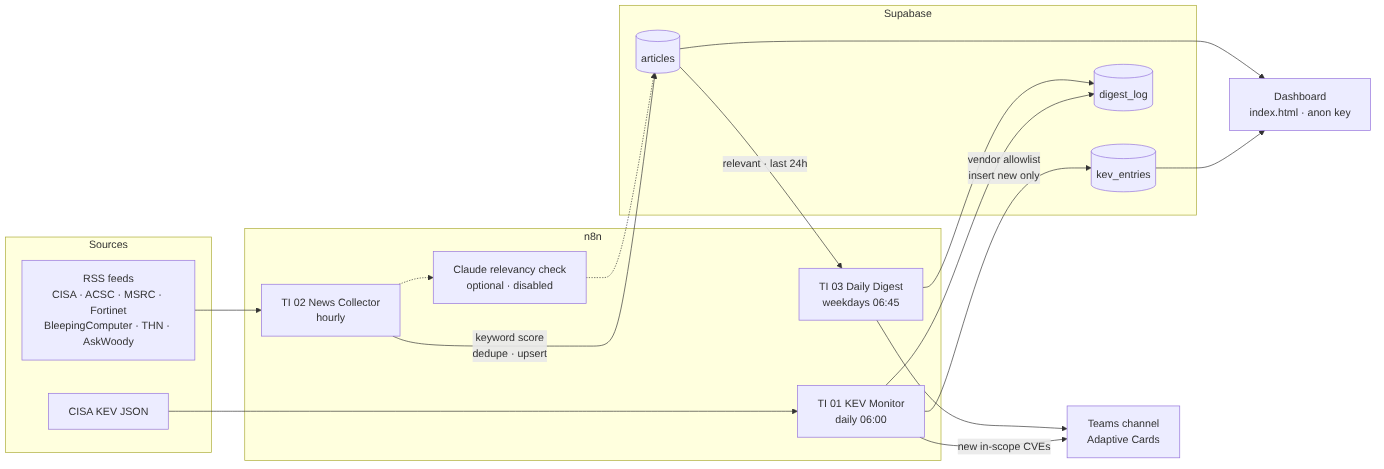
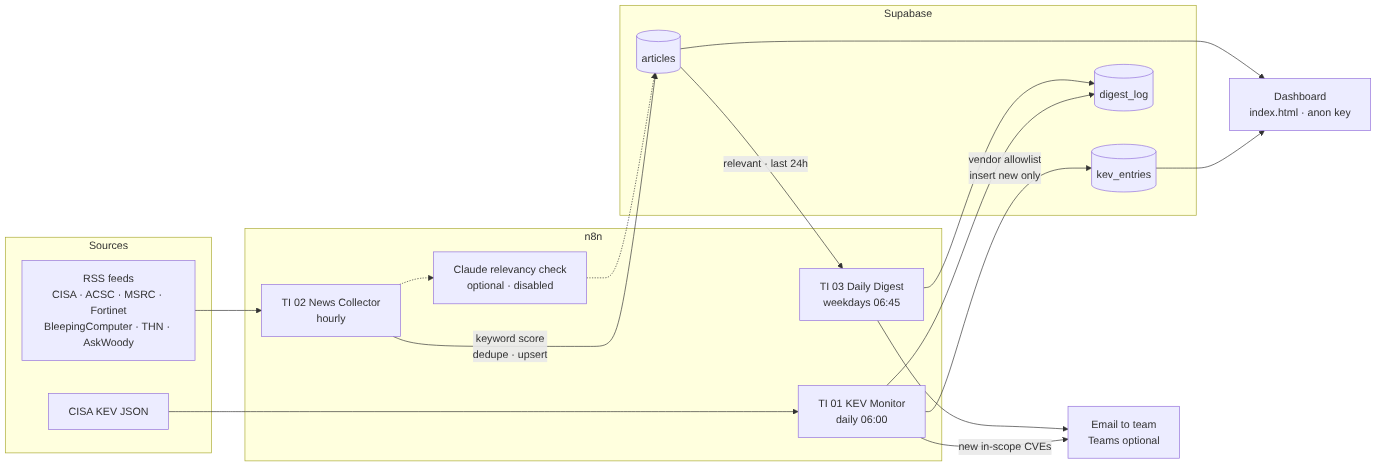
Switch default output to email (SMTP); keep Teams node disabled; add sample email
Claude-Session: https://claude.ai/code/session_01VwqciiszqqqVmUxhX1ibk1

diff --git a/docs/sample-kev-email.html b/docs/sample-kev-email.html
@@ -1,0 +1,6 @@
+<div style="font-family:Segoe UI,Arial,sans-serif;font-size:14px;color:#1b1f1c;max-width:720px">
+<h2 style="margin:0 0 4px">CISA KEV – 1 new in-scope entry</h2>
+<p style="color:#666;margin:0 0 16px">Filtered to vendors in our client environments · 1 stored this run</p><div style="border-top:1px solid #ddd;padding:10px 0">
+  <div><a href="https://nvd.nist.gov/vuln/detail/CVE-2026-1" style="font-weight:600">CVE-2026-1</a> – Microsoft Windows <span style="color:#b3261e;font-weight:600">⚠ Ransomware use known</span></div>
+  <div>CLFS EoP</div>
+  <div style="color:#666;font-size:12px">Added 2026-11-03 · Federal due 2026-11-24 · Patch</div></div><p style="margin-top:16px"><a href="https://your-dashboard-url/">Open dashboard</a></p></div>

diff --git a/dashboard/index.html b/dashboard/index.html
@@ -113,7 +113,7 @@ footer { color: var(--muted); font-size: 12px; margin-top: 24px; }
     <tbody></tbody></table></div>
 </section>
 
-<footer>Sources: CISA KEV · CISA advisories · ASD ACSC alerts &amp; advisories · MSRC · Fortinet PSIRT · BleepingComputer · The Hacker News · AskWoody. Pipeline: n8n → Supabase → Teams.</footer>
+<footer>Sources: CISA KEV · CISA advisories · ASD ACSC alerts &amp; advisories · MSRC · Fortinet PSIRT · BleepingComputer · The Hacker News · AskWoody. Pipeline: n8n → Supabase → email / Teams.</footer>
 </div>
 
 <script>

diff --git a/README.md b/README.md
@@ -10,9 +10,9 @@ AI relevancy step is wired in but disabled.
 
 | Workflow | Schedule | What happens |
 |---|---|---|
-| **TI 01 – KEV Monitor** | daily 06:00 | Pulls the CISA KEV JSON, keeps entries whose vendor/product is in our allowlist, inserts new ones into `kev_entries`, posts the new ones to Teams. Supabase returns only rows it inserted, so there's no "seen list" to maintain. |
+| **TI 01 – KEV Monitor** | daily 06:00 | Pulls the CISA KEV JSON, keeps entries whose vendor/product is in our allowlist, inserts new ones into `kev_entries`, emails the new ones (Teams optional). Supabase returns only rows it inserted, so there's no "seen list" to maintain. |
 | **TI 02 – News Collector** | hourly | Reads 8 RSS feeds, dedupes by link, scores each article against the vendor allowlist and high-signal terms (zero-day, actively exploited, ransomware, Australia, MSP…), upserts into `articles` with the score and matched terms. |
-| **TI 03 – Daily Digest** | weekdays 06:45 | Reads relevant articles from the last 24 h, groups by source, posts one Adaptive Card to Teams. |
+| **TI 03 – Daily Digest** | weekdays 06:45 | Reads relevant articles from the last 24 h, groups by source, sends one HTML email (Teams optional). |
 
 The dashboard (`dashboard/index.html`) reads both tables with the anon key and shows KEV hits,
 kept/dropped articles and *why* each was kept.
@@ -23,15 +23,22 @@ kept/dropped articles and *why* each was kept.
 1. Open the SQL editor in your Supabase project and run `supabase/schema.sql`.
 2. Note the **Project URL**, the **service_role** key (for n8n) and the **anon** key (for the dashboard).
 
-### 2. Teams webhook
-In the target channel: **… → Workflows → "Post to a channel when a webhook request is received"**.
-Copy the webhook URL. (The old "Incoming Webhook" connector is retired; the Workflows one accepts the
-same Adaptive Card payload these workflows send.)
+### 2. Email (default output)
+The workflows email the KEV alert and the daily digest. In n8n create an **SMTP** credential:
+- Gmail: host `smtp.gmail.com`, port `465`, SSL on, user = your Gmail address, password = a
+  [Google app password](https://myaccount.google.com/apppasswords) (needs 2-step verification on).
+- Microsoft 365: host `smtp.office365.com`, port `587`, STARTTLS, if SMTP AUTH is enabled on the mailbox.
+
+Then set `EMAIL_FROM` and `EMAIL_TO` in each Config node and pick that credential on the **Send email** nodes.
+
+**Teams instead?** Each workflow also has a *Post to Teams (disabled)* node. Create a channel
+webhook (**… → Workflows → "Send webhook alerts to a channel"**), put the URL in `TEAMS_WEBHOOK`,
+enable that node and disable *Send email*. Needs a work/school tenant; personal Teams can't do it.
 
 ### 3. n8n
 1. **Workflows → Import from file** for each of `n8n/01-kev-monitor.json`, `02-news-collector.json`, `03-daily-digest.json`.
 2. In each workflow open the **Config** node and fill in `SUPABASE_URL`, `SUPABASE_SERVICE_KEY`,
-   `TEAMS_WEBHOOK`, `DASHBOARD_URL`. Adjust `VENDOR_ALLOWLIST` / `SIGNAL_TERMS` / `MIN_SCORE` to taste.
+   `EMAIL_FROM`, `EMAIL_TO`, `DASHBOARD_URL`, then select your SMTP credential on the **Send email** node. Adjust `VENDOR_ALLOWLIST` / `SIGNAL_TERMS` / `MIN_SCORE` to taste.
    (For the demo the config lives in a Code node so there's nothing else to click. Before production,
    move the keys into n8n Credentials or Variables.)
 3. Run **TI 01** once manually. The first run stores the whole in-scope backlog but only posts entries
@@ -48,7 +55,7 @@ from a file share. Without keys it shows built-in sample data, which is handy fo
 
 1. Show the current manual process (the list of sites).
 2. Open **TI 01**, click *Execute workflow*, show the Filter node output (`total_in_catalog` vs `in_scope`),
-   then the Teams card that appears.
+   then the email that arrives.
 3. Open **TI 02**, execute, show the Score node output (score, matched terms, relevant flag), point out
    the dropped items.
 4. Open the dashboard: tiles → KEV table → articles with "why it was kept".
